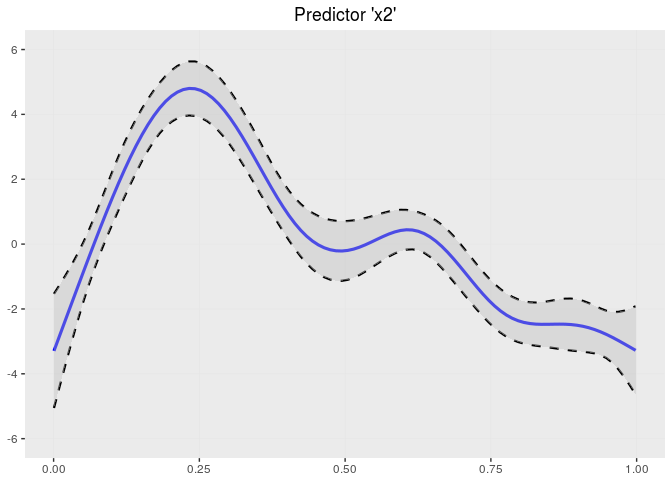
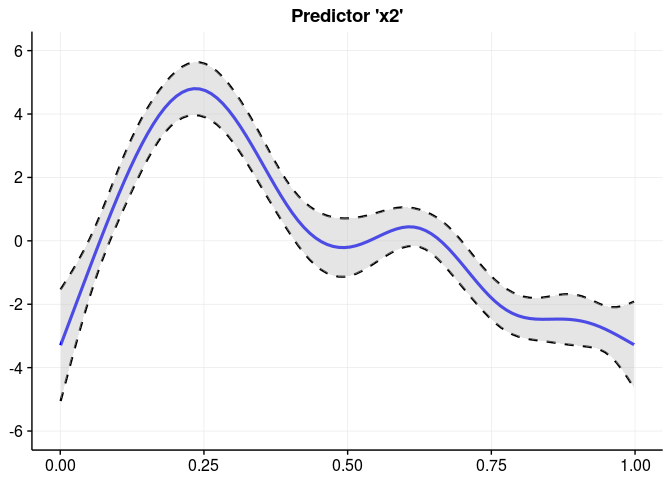
add library calls to README and vignette to apply correct cowplot theme

diff --git a/README.md b/README.md
@@ -100,7 +100,7 @@ plot.object <- plot_smooth.gam(fit.gam, pred = "x2", title = "Predictor 'x2'")
 or.object <- calc.oddsratio.gam(data = dat, model = fit.gam, 
                    pred = "x2", values = c(0.099, 0.198))
 
-plot <- add.or.to.plot(plot.object, or.object, height.or = 5, x.shift = 0.04)
+plot <- add.oddsratio.into.plot(plot.object, or.object, height.or = 5, x.shift = 0.04)
 plot
 ```
 
@@ -112,7 +112,7 @@ If you want to insert multiple odds ratios, just go on!
 or.object2 <- calc.oddsratio.gam(data = dat, model = fit.gam, 
                    pred = "x2", values = c(0.4, 0.6))
 
-add.or.to.plot(plot, or.object2, height.or = 2.5, x.shift = 0.024, 
+add.oddsratio.into.plot(plot, or.object2, height.or = 2.5, x.shift = 0.024, 
                col.line = "green4", col.text = "green4")
 ```
 
